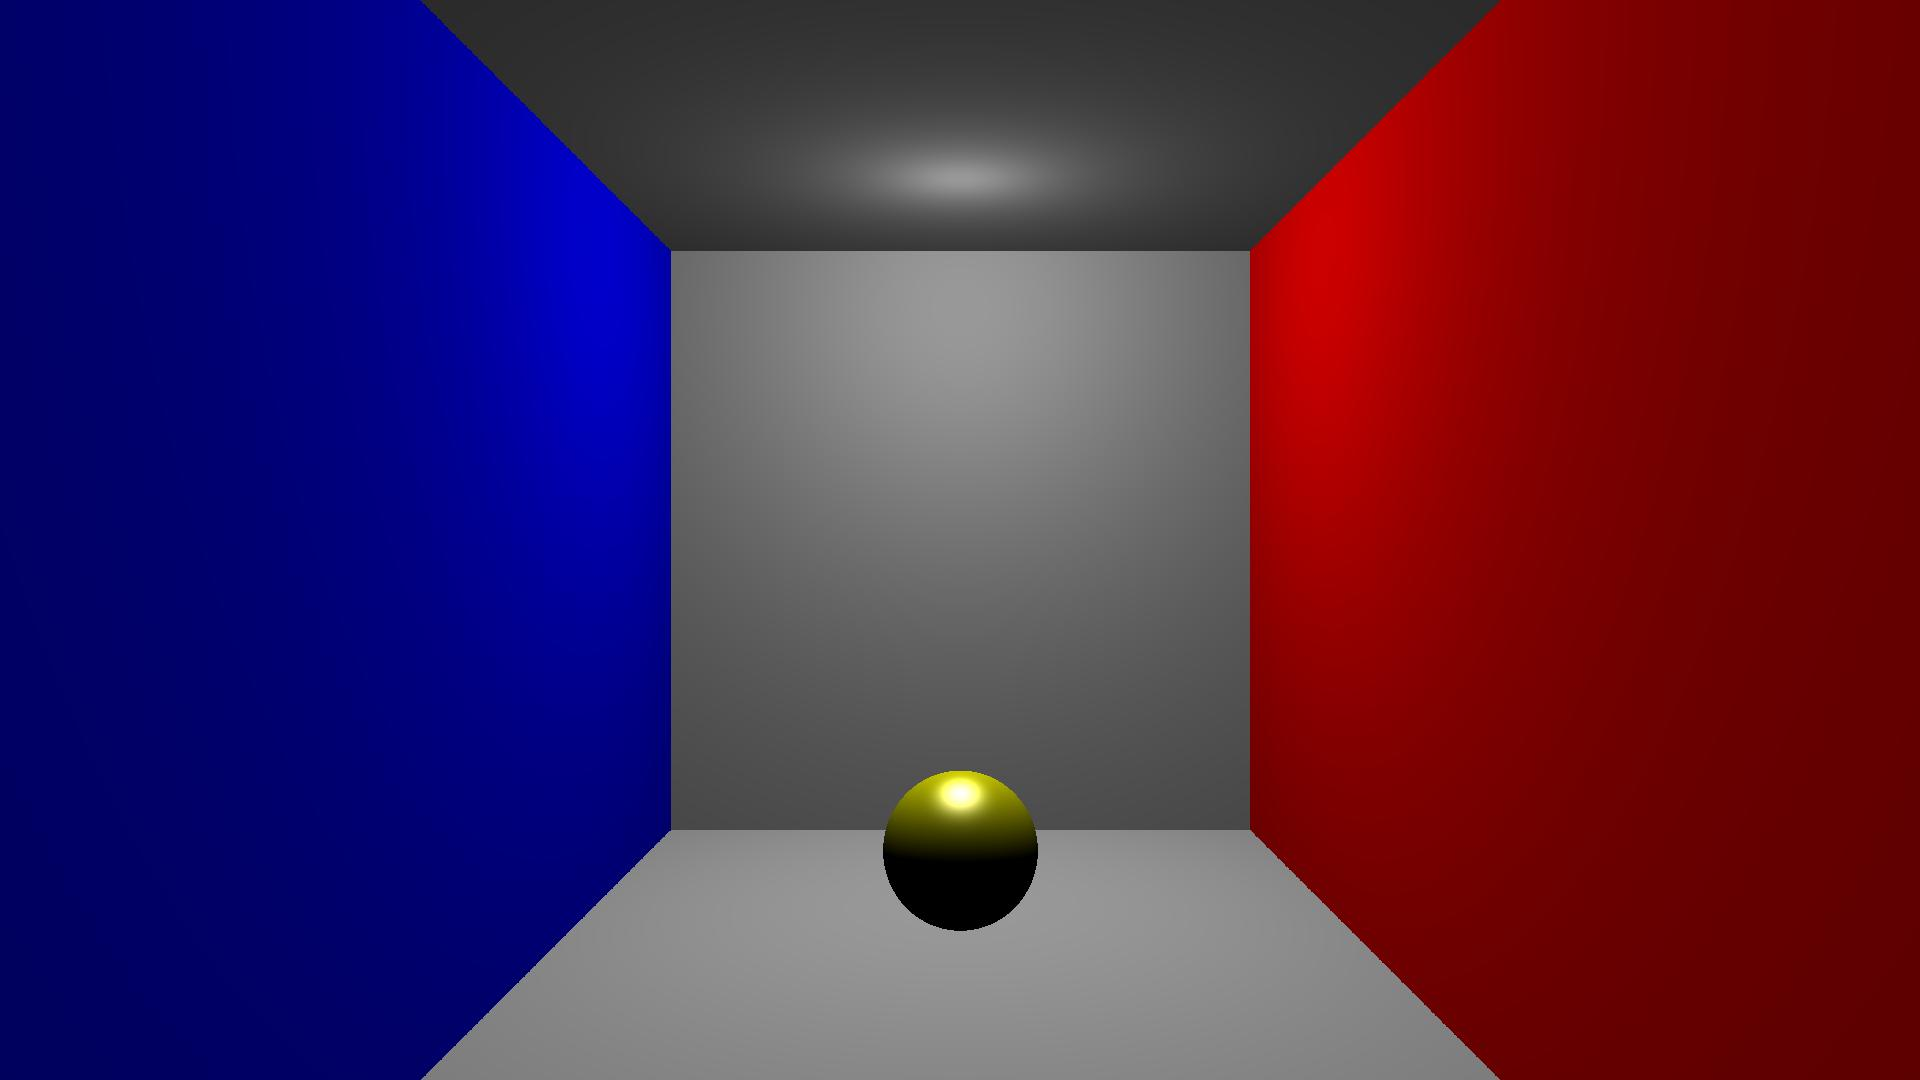
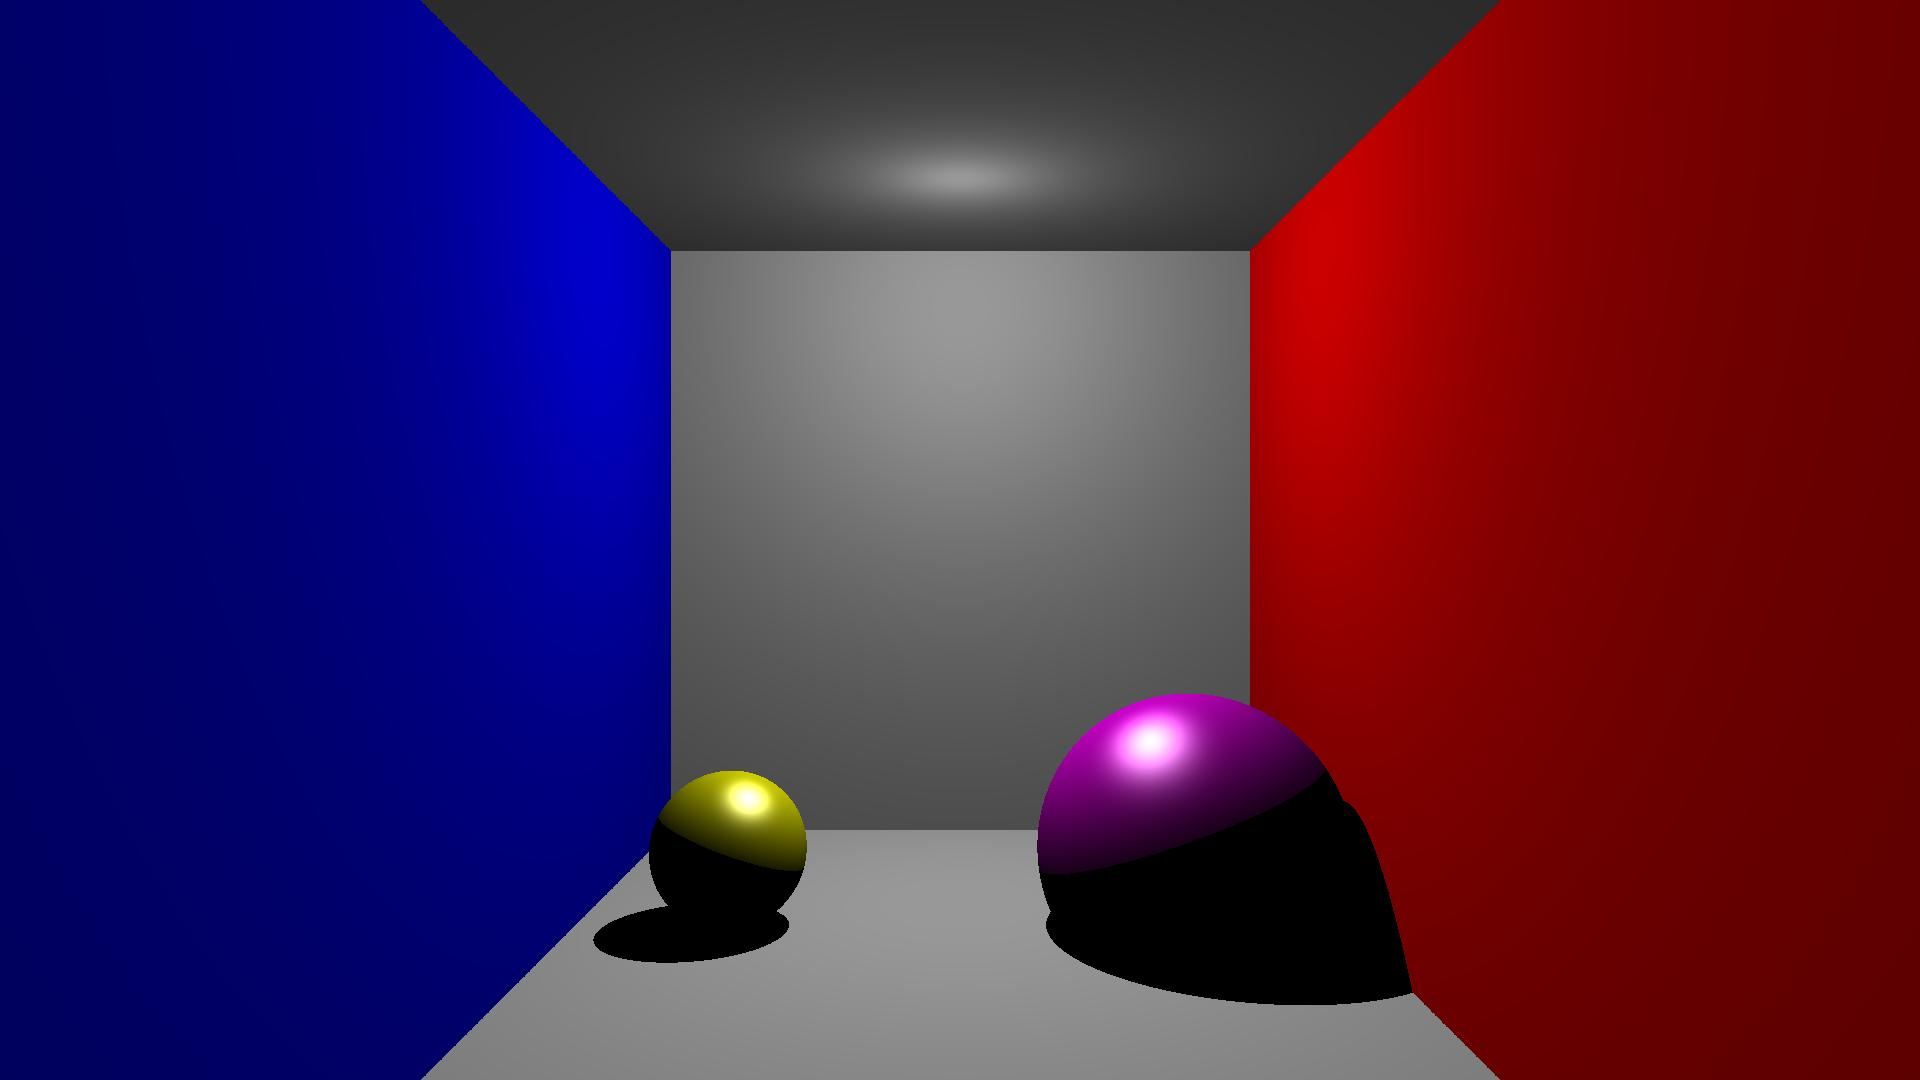
Shades and not working reflections

Changed region(s): [[0.3125, 0.6417, 0.75, 0.9472]]

diff --git a/scene.py b/scene.py
@@ -12,7 +12,8 @@ import numpy as np
 class Scene:
     shapes: List[Shape]
     
-    def __init__(self):
+    def __init__(self, max_depth = 2):
+        self.max_depth = max_depth
         self.shapes = []
 
     def add_shape(self, shape: Shape):
@@ -21,11 +22,15 @@ class Scene:
     def add_light_source(self, light_source: PointLight):
         self.light_source = light_source
 
-    def cast_ray(self, ray: Ray) -> Color:
+    def cast_ray(self, ray: Ray, shadow_brightness=0.1, depth=0) -> Color:
         nearest_intersection = self.nearest_intersection(ray)
         if nearest_intersection is None:
             return None
-        illumination = self.calculate_illumination(ray, nearest_intersection)
+
+        illumination = np.array([shadow_brightness, shadow_brightness, shadow_brightness])
+        if self.check_light(nearest_intersection):
+            illumination = self.calculate_illumination(ray, nearest_intersection)
+        
         color = Color.from_array(np.clip(illumination, 0.0, 1.0))
         return color
 
@@ -38,10 +43,29 @@ class Scene:
             if shape_intersection < intersection:
                 intersection = shape_intersection
         
-        if (intersection.t == ray.max_t) or (intersection.intersected_shape is None):
+        if self.no_intersection(intersection, ray):
             return None
 
         return intersection
+
+    def no_intersection(self, intersection, ray):
+        return (intersection.t == ray.max_t) or (intersection.intersected_shape is None)
+
+    def check_light(self, intersection):
+        ray = self.ray_to_light(intersection)
+        distance_to_light = self.distance_to_light(ray.origin)
+        nearest_intersection = self.nearest_intersection(ray)
+        return self.no_intersection(nearest_intersection, ray) or (nearest_intersection.t > distance_to_light) 
+
+    def distance_to_light(self, position: np.ndarray):
+        direction_to_light = self.light_source.position - position
+        return np.linalg.norm(direction_to_light)
+
+    def ray_to_light(self, intersection):
+        pos = intersection.position()
+        origin = pos + 1e-5 * intersection.normal()
+        direction = self.light_source.position - origin
+        return Ray(origin, direction)
 
     def calculate_illumination(self, ray: Ray, intersection: Intersection):
         direction_to_light = normalize(self.light_source.position - intersection.position())
@@ -50,7 +74,6 @@ class Scene:
         normal = intersection.normal()
         material = intersection.material()
         
-        illumination = np.zeros((3))
         # ambient
         ambient = (material.ambient_color * self.light_source.ambient_color).data
         # diffuse
@@ -63,6 +86,12 @@ class Scene:
 
         illumination = ambient + diffuse + specular
         return illumination
+
+    def reflected(ray: Ray, intersection: Intersection):
+        reflected_ray_origin = intersection.position()
+        normal = intersection.normal()
+        reflected_ray_direction = ray.direction - 2 * np.dot(ray.direction, normal) * normal
+        return Ray(reflected_ray_origin, reflected_ray_direction)
 
     def does_intesect(self, intersection: Intersection):
         for shape in self.shapes:

diff --git a/main.py b/main.py
@@ -14,14 +14,17 @@ from raytrace import ray_trace
 
 scene = Scene()
 
+walls_shineness = 0.0
 
-floor_material = Material(Color.gray(0.1), Color.gray(0.5), Color.gray(0.0), 100.0)
+walls_specular_color = Color.gray(0.0)
+
+floor_material = Material(Color.gray(0.1), Color.gray(0.5), walls_specular_color, walls_shineness)
 floor = Plane(np.array([0.0, 0.0, 0.0]), np.array([0.0, 1.0, 0.0]), floor_material)
 
-right_wall_material = Material(Color.blue(0.1), Color.blue(0.7), Color.gray(0.0), 100.0)
+right_wall_material = Material(Color.blue(0.1), Color.blue(0.7), walls_specular_color, walls_shineness)
 right_wall = Plane(np.array([5.0, 0.0, 0.0]), np.array([-1.0, 0.0, 0.0]), right_wall_material)
 
-left_wall_material = Material(Color.red(0.1), Color.red(0.7), Color.gray(0.0), 100.0)
+left_wall_material = Material(Color.red(0.1), Color.red(0.7), walls_specular_color, walls_shineness)
 left_wall = Plane(np.array([-5.0, 0.0, 0.0]), np.array([1.0, 0.0, 0.0]), left_wall_material)
 
 back_wall = Plane(np.array([0.0, 0.0, 10.0]), np.array([0.0, 0.0, -1.0]), floor_material)
@@ -34,9 +37,12 @@ scene.add_shape(back_wall)
 scene.add_shape(roof)
 
 sphere_material = Material(Color.yellow(0.1), Color.yellow(0.7), Color.gray(1.0))
-sphere = Sphere(np.array([0, 1.0, 5.0]), 1.0, sphere_material)
+sphere = Sphere(np.array([3.0, 1.0, 5.0]), 1.0, sphere_material)
+reflecting_material = Material(Color.purple(0.1), Color.purple(0.7), Color.gray(1.0), 100.0, 0.5)
+reflecting_sphere = Sphere(np.array([-2.0, 1.0, 5.0]), 2.0, reflecting_material)
 
 scene.add_shape(sphere)
+scene.add_shape(reflecting_sphere)
 
 light_material = Material(Color(1, 1, 1), Color(1, 1, 1), Color(1, 1, 1), 100.0)
 light = PointLight(np.array([0.0, 9.0, 6.0]), light_material)
@@ -49,4 +55,6 @@ camera = Camera(np.array([0.0, 5.0, -10.0]), np.array([0.0, 5.0, 2.0]),
 
 ray_trace(image, scene, camera)
 image.save("output.jpg")
-image.save("gamma_corrected.jpg", True)
+print("saved output")
+image.save("gamma_corrected.jpg", True, 1.4, 2.2)
+print("saved gamma_corrected")

diff --git a/material.py b/material.py
@@ -3,8 +3,9 @@ import numpy as np
 
 class Material:
     def __init__(self, ambient_color: Color, diffuse_color: Color, specular_color: Color, 
-                       shininess: float = 100.0):
+                       shininess: float = 100.0, reflection: float = 0.0):
         self.ambient_color = ambient_color
         self.diffuse_color = diffuse_color
         self.specular_color = specular_color
         self.shininess = shininess
+        self.reflection = reflection

diff --git a/ray.py b/ray.py
@@ -1,10 +1,11 @@
 import numpy as np
 from constants import RAY_MIN_DISTANCE, RAY_MAX_DISTANCE 
+from vector_helpers import normalize
 
 class Ray:
     def __init__(self, origin: np.ndarray, direction: np.ndarray, max_t = RAY_MAX_DISTANCE):
         self.origin = origin
-        self.direction = direction
+        self.direction = normalize(direction)
         self.max_t = max_t
 
     def ray_point(self, t: float):
